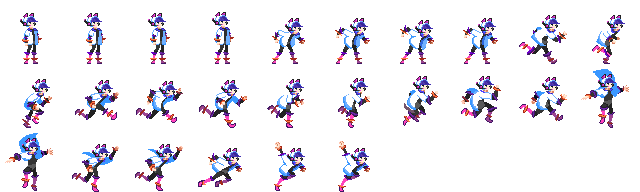
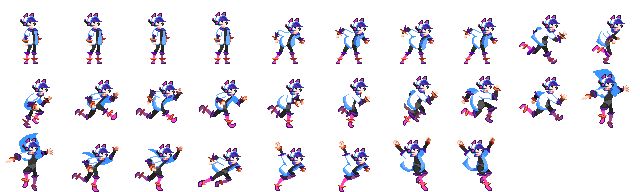
WallKickアニメーション実装完了

Changed region(s): [[0.5938, 0.7188, 0.6875, 1.0], [0.7188, 0.7188, 0.7812, 1.0]]

diff --git a/Assets/Sctipts/PlayerAnimStateHandler.cs b/Assets/Sctipts/PlayerAnimStateHandler.cs
@@ -7,8 +7,8 @@ public class PlayerAnimStateHandler : MonoBehaviour
     Animator animator;
     PlayerStateMgr stateMgr;
 
-    internal IPlayerAnimState idleState, walkState, jumpState, fallState, dashState, wallFallState;
-    IPlayerAnimState currentState;
+    internal IPlayerAnimState idleState, walkState, jumpState, fallState, dashState, wallFallState, wallKickState;
+    internal IPlayerAnimState currentState;
 
     AnimatorCtrl animatorCtrl;
     PlayerStatus playerStatus;
@@ -30,6 +30,7 @@ public class PlayerAnimStateHandler : MonoBehaviour
         fallState = new FallState(animatorCtrl);
         dashState = new DashState(animatorCtrl);
         wallFallState = new WallFallState(animatorCtrl);
+        wallKickState = new WallKickState(animatorCtrl);
 
         currentState = idleState;
     }
@@ -44,6 +45,8 @@ public class PlayerAnimStateHandler : MonoBehaviour
 
     public void ChangeAnimState(IPlayerAnimState newState)
     {
+        if (currentState == newState) return;
+
         currentState.Exit();
         currentState = newState;
         currentState.Enter();
@@ -197,5 +200,24 @@ public class WallFallState : IPlayerAnimState
     public void Exit()
     {
         AnimatorCtrl.StopAnim("isWallFall");
+    }
+}
+
+public class WallKickState : IPlayerAnimState
+{
+    AnimatorCtrl AnimatorCtrl;
+    public WallKickState(AnimatorCtrl animatorCtrl)
+    {
+        this.AnimatorCtrl = animatorCtrl;
+    }
+
+    public void Enter()
+    {
+        AnimatorCtrl.StartAnim("isWallKick");
+    }
+
+    public void Exit()
+    {
+        AnimatorCtrl.StopAnim("isWallKick");
     }
 }

diff --git a/Assets/PlayerStateMgr.cs b/Assets/PlayerStateMgr.cs
@@ -53,6 +53,8 @@ namespace PlayerState
 
         private void Start()
         {
+            //Time.timeScale = 0.1f;
+
             //Debug.Log("dash.dashsparkfactory: " + dash.dashSparkFactory);
 
             idleState = new Idle();
@@ -716,6 +718,8 @@ namespace PlayerState
             isWalkNow = false;
             isOneTimeAbleTo_TurnOn_KeepDashSpeed = false;
 
+            stateMgr.animHandler.ChangeAnimState(stateMgr.animHandler.wallKickState);
+
             /// <summary>
             /// スピードを0にして、壁キックを行う
             /// </summary>
@@ -732,6 +736,21 @@ namespace PlayerState
         {
             if (stateMgr.actionStatusChk.IsFallingNow())
             {
+                if(stateMgr.inputHandler.IsMoveLeftKey() && stateMgr.actionStatusChk.IsWall(false))
+                {
+                    stateMgr.animHandler.ChangeAnimState(stateMgr.animHandler.wallFallState);
+                    stateMgr.ChangeState(stateMgr.wallFallState);
+                    return;
+                }
+
+                if(stateMgr.inputHandler.IsMoveRightKey() && stateMgr.actionStatusChk.IsWall(true))
+                {
+                    stateMgr.animHandler.ChangeAnimState(stateMgr.animHandler.wallFallState);
+                    stateMgr.ChangeState(stateMgr.wallFallState);
+                    return;
+                }
+
+
                 stateMgr.ChangeState(stateMgr.fallState);
                 return;
             }

diff --git a/Assets/PlayerStatus.cs b/Assets/PlayerStatus.cs
@@ -12,12 +12,14 @@ namespace PlayerInfo
         InputHandler inputHandler;
         ActionStatusChecker actionStatusChecker;
         PlayerStateMgr playerStateMgr;
+        PlayerAnimStateHandler animStateHandler;
 
-        public void Init(InputHandler inputHandler, ActionStatusChecker actionStatusChecker, PlayerStateMgr stateMgr)
+        public void Init(InputHandler inputHandler, ActionStatusChecker actionStatusChecker, PlayerStateMgr stateMgr, PlayerAnimStateHandler animStateHandler)
         {
             this.inputHandler = inputHandler;
             this.actionStatusChecker = actionStatusChecker;
             this.playerStateMgr = stateMgr;
+            this.animStateHandler = animStateHandler;
 
             /// <summary>
             /// 重要！フレームレートの設定
@@ -67,6 +69,8 @@ namespace PlayerInfo
             if (inputHandler.IsMoveLeftKey()) PlayerDirection = false;
 
             if (inputHandler.IsMoveRightKey()) PlayerDirection = true;
+
+            if (animStateHandler.currentState == animStateHandler.wallKickState) return;
 
             if (!actionStatusChecker.isJumpingNow() && !actionStatusChecker.IsGround() && actionStatusChecker.IsToushWallNow())
                 PlayerDirection = !PlayerDirection;

diff --git a/Assets/Sctipts/PlayerInitializer.cs b/Assets/Sctipts/PlayerInitializer.cs
@@ -73,7 +73,7 @@ public class PlayerInitializer : MonoBehaviour
         playerStateMgr.Init(rb, playerStatus, actionHandler, actionStatusChecker, inputHandler, dashKeepManager, wallKickDelayManager,animHandler);
         actionStatusChecker.Init(groundChk, leftside, rightside, wallleftside, wallrightside, playerStatus, rb);
         actionHandler.Init(rb, actionStatusChecker, playerStatus, dashKeepManager);
-        playerStatus.Init(inputHandler, actionStatusChecker, playerStateMgr);
+        playerStatus.Init(inputHandler, actionStatusChecker, playerStateMgr, animHandler);
         wallKickDelayManager.Init(playerStatus, playerStateMgr);
         playerDashTimeCtrl.Init(playerStatus);
         dashKeepManager.Init(actionStatusChecker, inputHandler);
